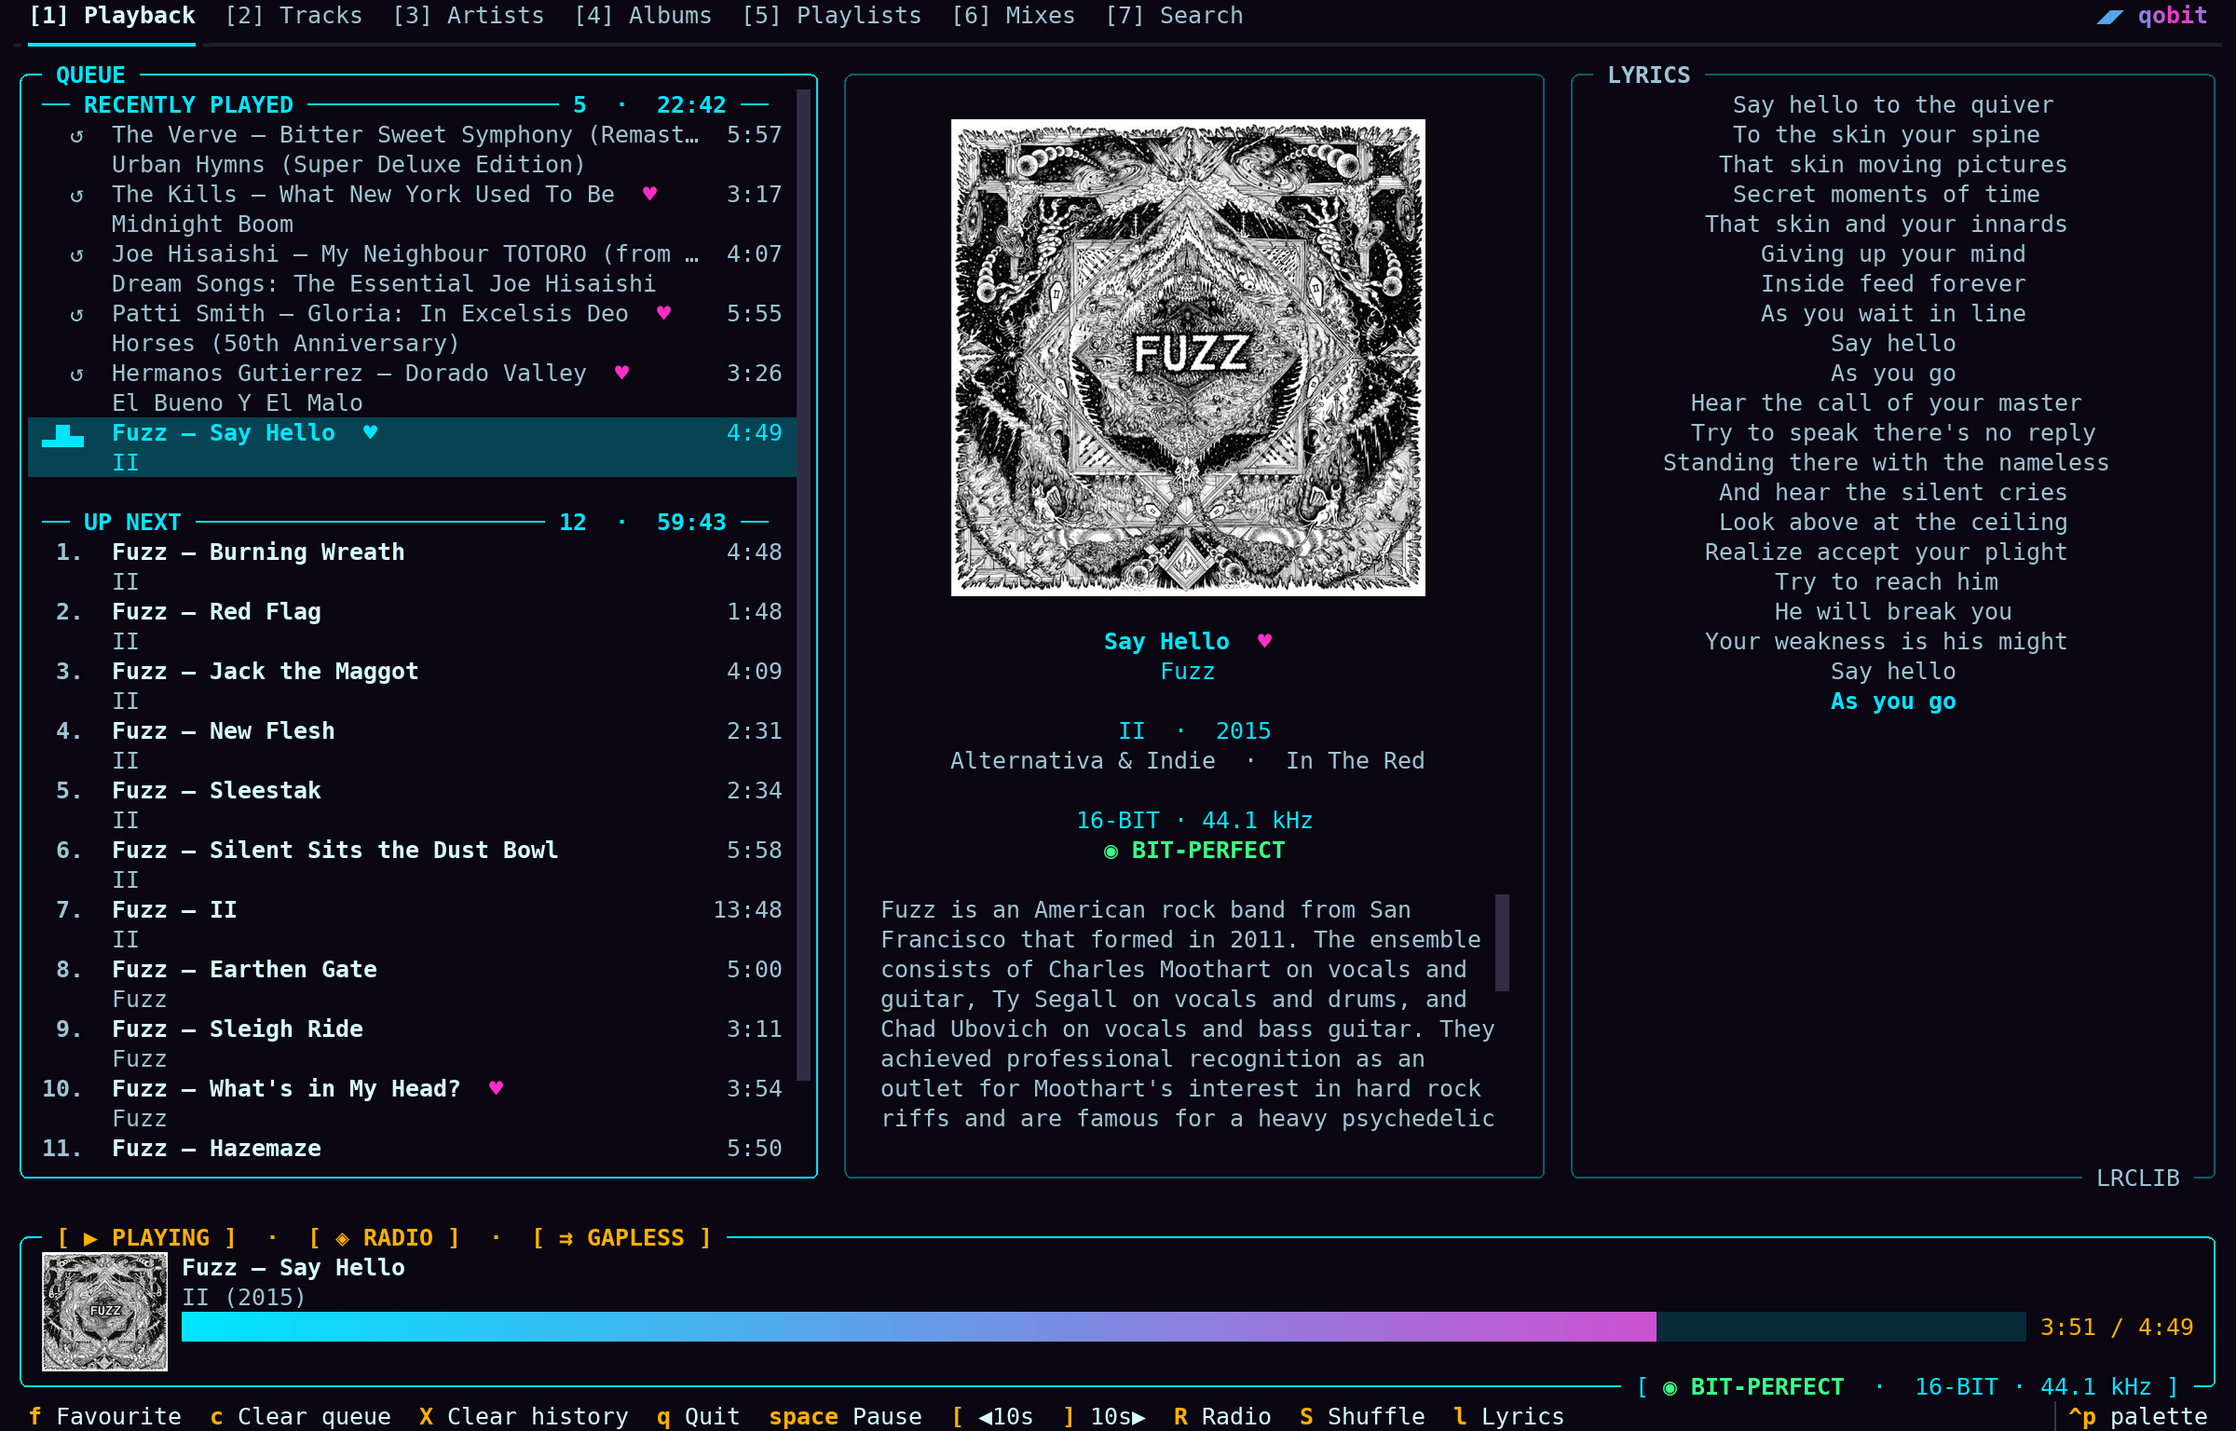
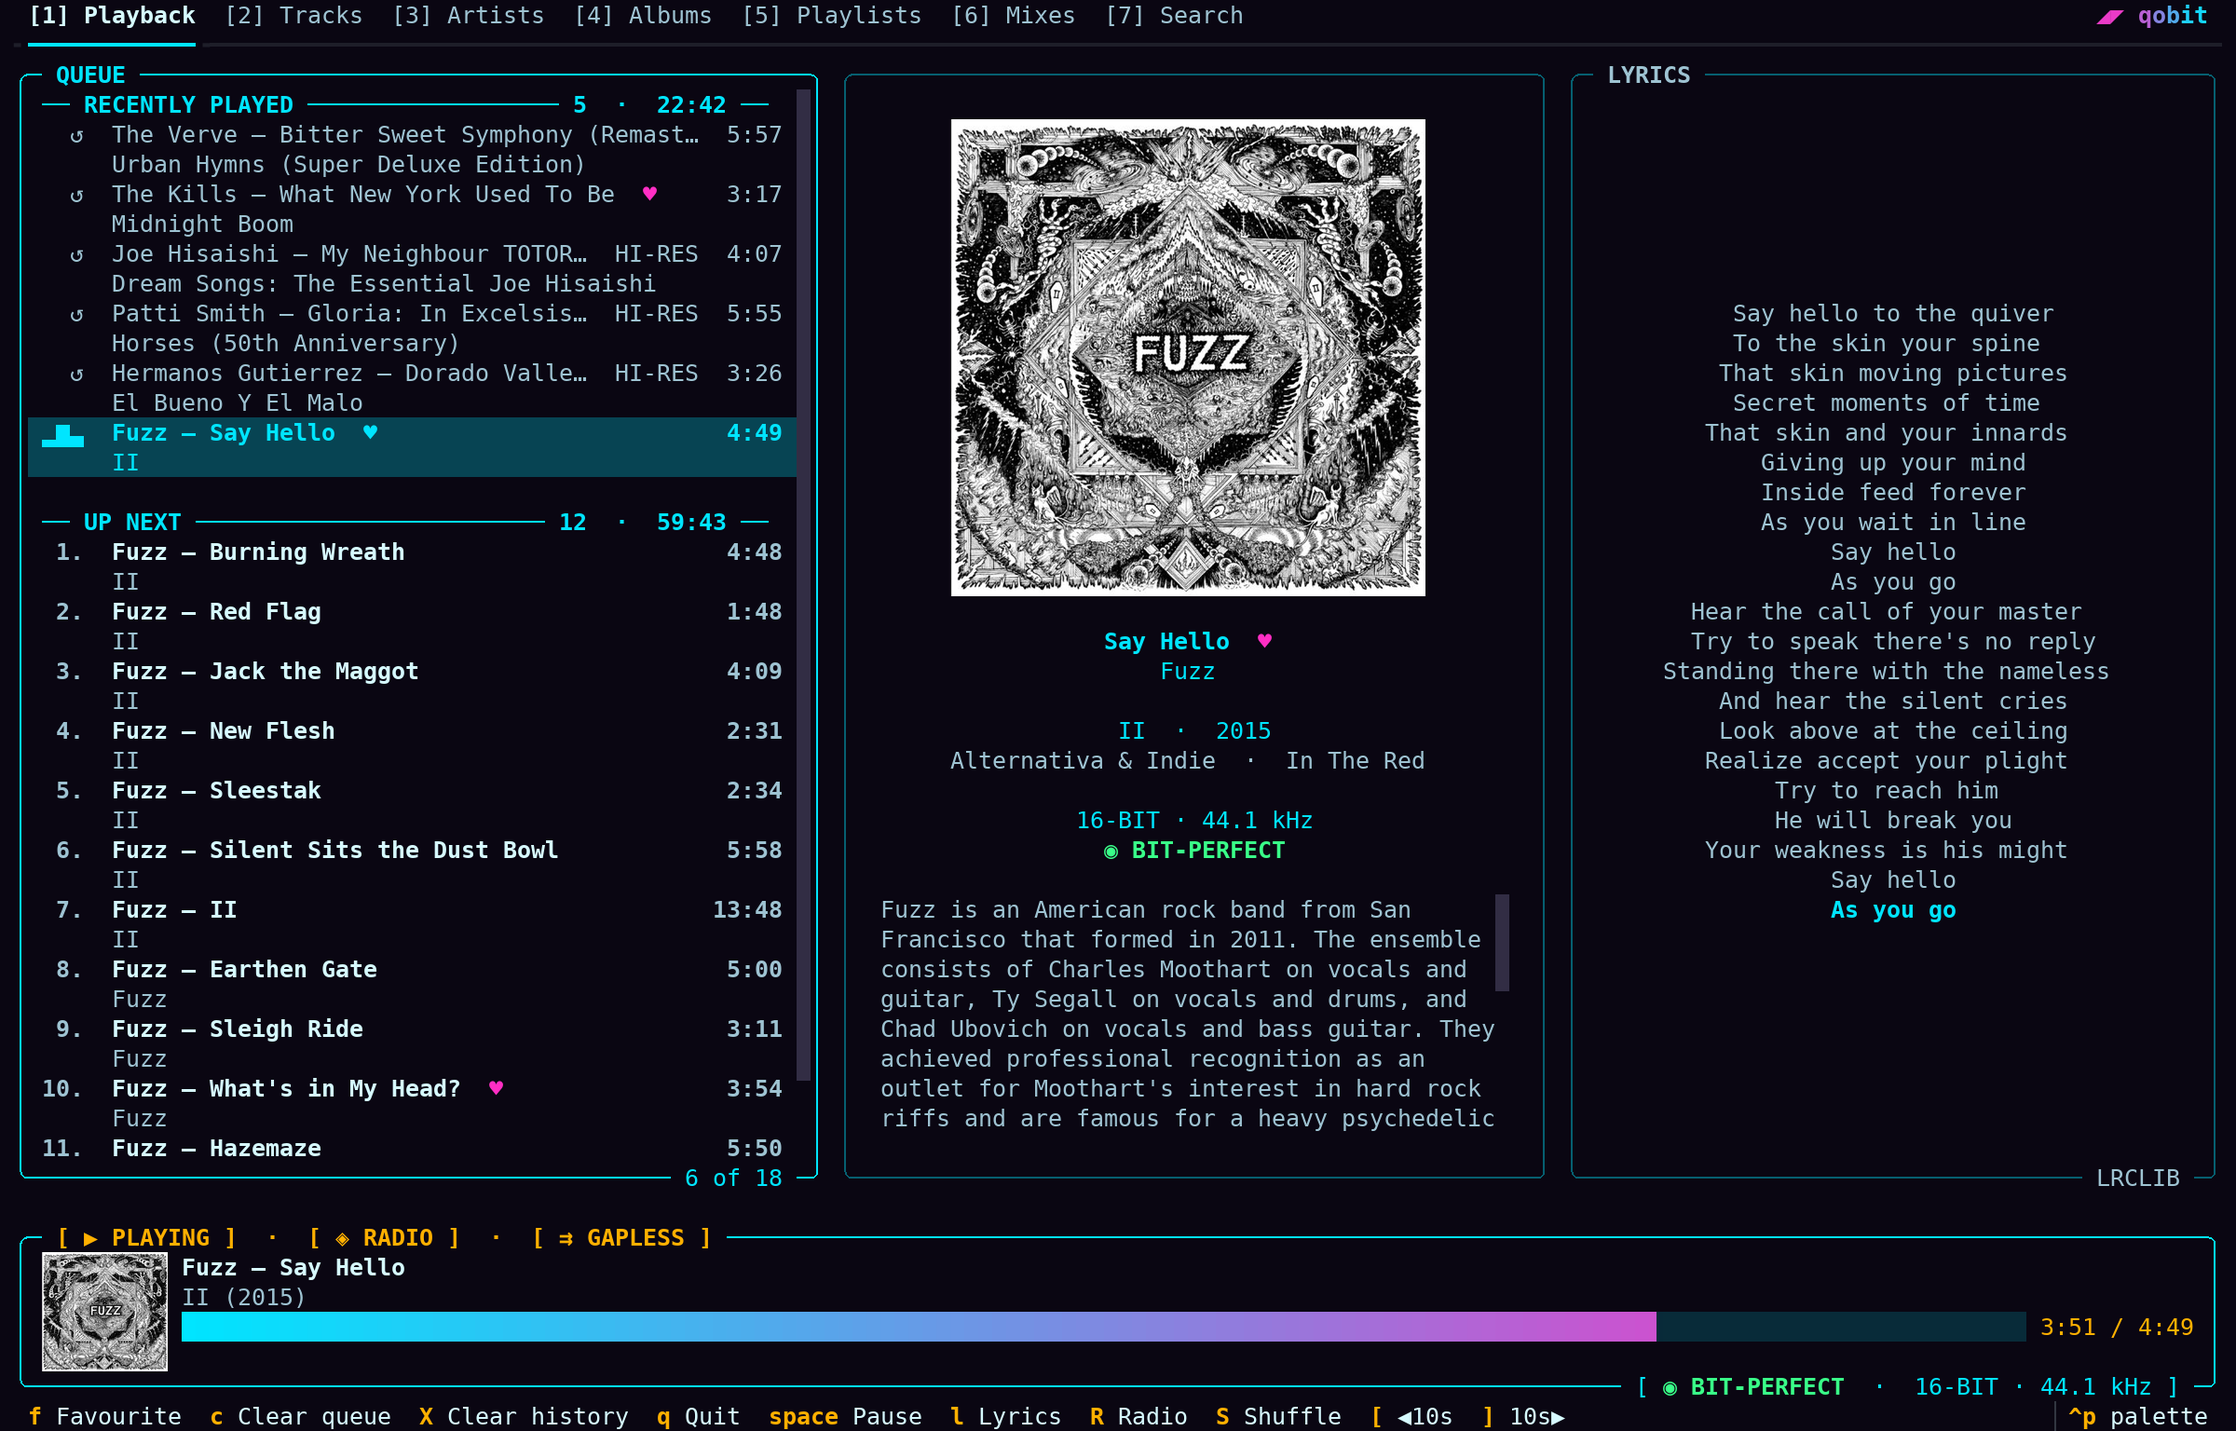
fix: footer keeps Lyrics, next-track prefetch retry, HI-RES in the queue
The footer drops the seek keys before Lyrics. A failed early fetch of the
next track's lyrics is tried once more. Queue rows show HI-RES before the
length (drawn into the title line, so the album line keeps its width), the
queue border says "N of M", and short lyrics are centred in their panel.
The Playback screenshot is regenerated.

diff --git a/tests/test_lyrics_app.py b/tests/test_lyrics_app.py
@@ -777,8 +777,9 @@ def test_two_columns_are_60_40(lyr):
 # ── queue rows ───────────────────────────────────────────────────────────────
 
 
-def _queue_lines(lyr, size=(120, 36)):
-    """The Playback list's rendered text lines, with a past, a now and an Up Next."""
+def _queue_lines(lyr, size=(120, 36), hires=()):
+    """The Playback list's rendered text lines, with a past, a now and an Up Next
+    (``hires``: the indexes of the tracks with better than CD quality)."""
     import dataclasses
 
     out: list[str] = []
@@ -786,7 +787,14 @@ def _queue_lines(lyr, size=(120, 36)):
     async def body():
         async with lyr.app.run_test(size=size) as pilot:
             ts = [
-                dataclasses.replace(_track(f"T{i}"), artist=f"Art{i}", album=f"Alb{i}", duration=d)
+                dataclasses.replace(
+                    _track(f"T{i}"),
+                    artist=f"Art{i}",
+                    album=f"Alb{i}",
+                    duration=d,
+                    bit_depth=24 if i in hires else 16,
+                    sampling_rate=96 if i in hires else 44.1,
+                )
                 for i, d in enumerate((200, 247, 294, 341, 388))
             ]
             lyr.play(ts[2], ts[3:])
@@ -880,5 +888,61 @@ def test_a_retry_does_not_land_on_another_track(lyr, monkeypatch):
             await pilot.pause(0.8)
             assert lyr.app.lyrics is SYNCED
             assert [q.title for q in lyr.service.queries].count("down") == 1
+
+    _run(body)
+
+
+def test_a_hires_track_shows_it_before_its_length_and_a_cd_one_does_not(lyr):
+    lines = _queue_lines(lyr, hires=(3,))
+    assert any("Art3" in ln and "HI-RES  5:41" in ln for ln in lines)
+    assert not any("HI-RES" in ln and "Art4" in ln for ln in lines)
+    row = next(ln for ln in lines if "Art3" in ln)
+    right = row.index("│", row.index("│") + 1)  # the list's right border
+    assert row[:right].rstrip().endswith("5:41")  # still at the edge
+
+
+def test_the_queue_border_says_where_you_are(lyr):
+    lines = _queue_lines(lyr)
+    assert any("3 of 5" in ln for ln in lines)
+
+
+def test_the_footer_keeps_lyrics_where_it_has_little_room(lyr):
+    async def body():
+        async with lyr.app.run_test(size=(120, 30)) as pilot:
+            await pilot.pause(0.3)
+            assert "Lyrics" in _screen_text(lyr.app)
+
+    _run(body)
+
+
+def test_short_lyrics_sit_in_the_middle_of_the_panel(lyr):
+    async def body():
+        async with lyr.app.run_test(size=(180, 40)) as pilot:
+            lyr.play(_track("A"))
+            await wait_until(pilot, lambda: lyr.app.lyrics_status == "found")
+            await pilot.pause(0.3)
+            _, _, panel = _pane(lyr.app)
+            rows = [s.text for s in lyr.app.screen._compositor.render_strips()]
+            first = next(n for n, r in enumerate(rows) if "first line" in r)
+            assert first - panel.region.y > 3  # not hugging the top border
+            below = panel.region.bottom - 1 - max(n for n, r in enumerate(rows) if "line" in r)
+            assert abs(below - (first - panel.region.y - 1)) <= 2  # about even above and below
+
+    _run(body)
+
+
+def test_a_failed_early_fetch_is_asked_for_again_once(lyr, monkeypatch):
+    monkeypatch.setattr("qobit.ui.app._LYRICS_RETRY_SECS", 0.2)
+
+    async def body():
+        async with lyr.app.run_test(size=(120, 30)) as pilot:
+            lyr.service.answers["next"] = Result("failed")
+            lyr.app._lyrics_prefetched = "next"
+            lyr.app._prefetch_lyrics(_track("next"))
+            await wait_until(pilot, lambda: lyr.app._lyrics_prefetched is None, timeout=3)
+            lyr.app._lyrics_prefetched = "next"
+            lyr.app._prefetch_lyrics(_track("next"))
+            await pilot.pause(0.6)
+            assert lyr.app._lyrics_prefetched == "next"  # a second failure is left alone
 
     _run(body)

diff --git a/src/qobit/ui/screens/queue.py b/src/qobit/ui/screens/queue.py
@@ -53,6 +53,11 @@ def _meta(t: Track) -> str:
     return f"{meta_indent(_GUTTER)}{t.album}"
 
 
+def _time(t: Track) -> str:
+    """The right edge of a row's title line: the length, HI-RES before it."""
+    return f"HI-RES  {t.duration_str}" if t.hires else t.duration_str
+
+
 def _total(tracks: list[Track]) -> str:
     """Playing time of ``tracks`` (m:ss, h:mm:ss from an hour), "" if unknown."""
     secs = sum(t.duration for t in tracks)
@@ -134,9 +139,6 @@ class TimelineRow(ListItem):
     DEFAULT_CSS = """
     TimelineRow { height: 2; padding: 0 1; }
     TimelineRow Label { width: 1fr; }
-    /* The duration sits at the right of the title line; docked, it takes its
-       width off the title (which then ends in an ellipsis), never overlaps. */
-    TimelineRow .row-dur { dock: right; width: auto; height: 1; padding-left: 2; }
     TimelineRow.-next .row-title { text-style: bold; }
     TimelineRow.-next .row-meta { color: $qobit-muted; }
     TimelineRow.-history .row-title { color: $qobit-muted; }
@@ -157,6 +159,7 @@ class TimelineRow(ListItem):
         self._number = 0
         self._favorite = False
         self._is_paused = False
+        self._width = 0  # the title line's width, once laid out (see _with_time)
 
     def configure(
         self,
@@ -205,11 +208,30 @@ class TimelineRow(ListItem):
             lead, text, False, False, heart_suffix(self._favorite), width=_GUTTER
         )
 
+    def _with_time(self, title: Content) -> Content:
+        """The title line with the length (and HI-RES) at its right edge: drawn
+        into the line, so the album line below keeps its whole width. The title
+        gives way with an ellipsis. Unknown width (not laid out yet): as is."""
+        if self._width <= 0:
+            return title
+        time = _time(self.track)
+        room = self._width - len(time) - 2
+        if room < 8:  # a very narrow list: no room for both
+            return title
+        style = "$qobit-muted" if self.role == "next" else ""
+        return Content.assemble(title.truncate(room, ellipsis=True, pad=True), "  ", (time, style))
+
     def _refresh_title(self) -> None:
         with contextlib.suppress(NoMatches):
             # One line (nowrap): no layout pass (see NowPlayingRowMixin).
-            title = plain_if_highlighted(self, self._primary())
+            title = plain_if_highlighted(self, self._with_time(self._primary()))
             self.query_one(".row-title", Label).update(title, layout=False)
+
+    def on_resize(self, event: Resize) -> None:
+        width = self.content_size.width
+        if width != self._width:
+            self._width = width
+            self._refresh_title()
 
     def watch_highlighted(self, value: bool) -> None:
         super().watch_highlighted(value)  # ListItem: the -highlight class
@@ -217,8 +239,7 @@ class TimelineRow(ListItem):
             self._refresh_title()
 
     def compose(self) -> ComposeResult:
-        yield Label(self.track.duration_str, classes="row-meta row-dur", markup=False)
-        yield Label(self._primary(), classes="row-title")
+        yield Label(self._with_time(self._primary()), classes="row-title")
         yield Label(_meta(self.track), classes="row-meta", markup=False)
 
     def set_paused(self, paused: bool) -> None:
@@ -726,7 +747,10 @@ class QueueView(Widget):
         lv._backlog = desired[limit:]  # type: ignore[attr-defined]
         await self._apply(lv, desired[:limit])
 
-        lv.border_subtitle = ""  # the section rules carry the counts and times
+        # Where you are in the timeline (the section rules carry counts and times).
+        lv.border_subtitle = (
+            f"{app._cursor + 1} of {len(app._timeline)}" if now_playing and app._cursor >= 0 else ""
+        )
 
         target = now_row if follow or held not in desired else held
         self._place_cursor(lv, target, center=first_render)

diff --git a/src/qobit/ui/app.py b/src/qobit/ui/app.py
@@ -474,11 +474,13 @@ class QobitApp(App[None]):
     BINDINGS = [
         Binding("q", "quit", "Quit"),
         Binding("space", "pause", "Pause"),
-        Binding("[", "seek_back", "◀10s"),
-        Binding("]", "seek_fwd", "10s▶"),
+        # The footer hides keys from the end when it is short: the ones that
+        # matter most come first (the seek keys are on the mouse and `[` `]`).
+        Binding("l", "lyrics", "Lyrics"),
         Binding("R", "start_radio", "Radio"),
         Binding("S", "toggle_shuffle", "Shuffle"),
-        Binding("l", "lyrics", "Lyrics"),
+        Binding("[", "seek_back", "◀10s"),
+        Binding("]", "seek_fwd", "10s▶"),
         Binding("L", "lyrics_full", "Lyrics", show=False),
         # Listed in the footer only on the lyrics page (its own bindings): the
         # Playback footer has no room for three more keys.
@@ -658,6 +660,7 @@ class QobitApp(App[None]):
         self._lyrics_query: Query | None = None
         self._lyrics_prefetched: str | None = None
         self._lyrics_retries = 0
+        self._lyrics_prefetch_retried: set[str] = set()
         self._prefetch_failed: str | None = None
         self._prefetching = False
         self._flash_timer: object | None = None
@@ -1515,6 +1518,7 @@ class QobitApp(App[None]):
         self._lyrics_query = None
         self._lyrics_prefetched = None
         self._lyrics_retries = 0
+        self._lyrics_prefetch_retried = set()
         self.lyrics_line = -1
         if track is None:
             self.lyrics_status = "idle"
@@ -1576,7 +1580,14 @@ class QobitApp(App[None]):
 
     @work(group="_prefetch_lyrics")
     async def _prefetch_lyrics(self, track: Track) -> None:
-        await self._lyrics.lookup(self._lyrics_query_for(track))  # fills the cache
+        result = await self._lyrics.lookup(self._lyrics_query_for(track))  # fills the cache
+        if result.status == "failed" and track.id not in self._lyrics_prefetch_retried:
+            self._lyrics_prefetch_retried.add(track.id)  # once: the position tick asks again
+            self.set_timer(_LYRICS_RETRY_SECS, lambda: self._forget_prefetch(track.id))
+
+    def _forget_prefetch(self, track_id: str) -> None:
+        if self._lyrics_prefetched == track_id:
+            self._lyrics_prefetched = None
 
     def _lyrics_screen_open(self) -> bool:
         from .screens.lyrics import LyricsScreen

diff --git a/src/qobit/qobuz/models.py b/src/qobit/qobuz/models.py
@@ -83,6 +83,10 @@ class Track:
     # The recording's ISRC: names the track across editions (lyrics are cached
     # by it). None in lists saved before it existed: they load unchanged.
     isrc: str | None = None
+    # The best Qobuz has for it (16 / 44.1 is CD quality). None in lists saved
+    # before they existed: no badge until the list is fetched again.
+    bit_depth: int | None = None
+    sampling_rate: float | None = None
 
     @classmethod
     def from_api(cls, data: dict) -> "Track":
@@ -115,7 +119,14 @@ class Track:
             album_artist_id=str(album_artist["id"]) if album_artist.get("id") else None,
             album_year=release_year(album),
             isrc=data.get("isrc") or None,
+            bit_depth=data.get("maximum_bit_depth") or None,
+            sampling_rate=data.get("maximum_sampling_rate") or None,
         )
+
+    @property
+    def hires(self) -> bool:
+        """Better than CD quality."""
+        return bool((self.bit_depth or 0) > 16 or (self.sampling_rate or 0) > 44.1)
 
     def by_artist(self, artist_id: str) -> bool:
         return artist_id in (self.artist_id, self.album_artist_id)

diff --git a/tests/test_lyrics_core.py b/tests/test_lyrics_core.py
@@ -471,3 +471,22 @@ def test_cache_a_choice_kept_before_the_isrc_was_known_is_found_with_it():
     lyrics_cache.update(full, reject=True)  # moves to the ISRC key
     assert lyrics_cache.load(full).rejected and lyrics_cache.load(full).offset == 1.5
     assert lyrics_cache.load(bare) is None  # no stale copy under the old key
+
+
+def test_a_track_knows_whether_it_is_better_than_cd_quality():
+    from qobit.qobuz.models import Track
+
+    def track(depth, rate) -> Track:
+        return Track.from_api(
+            {
+                "id": 1,
+                "title": "t",
+                "maximum_bit_depth": depth,
+                "maximum_sampling_rate": rate,
+                "performer": {"name": "a"},
+            }
+        )
+
+    assert not track(16, 44.1).hires
+    assert track(24, 44.1).hires and track(16, 96).hires and track(24, 192).hires
+    assert not Track.from_api({"id": 1, "title": "t", "performer": {"name": "a"}}).hires

diff --git a/src/qobit/ui/widgets/lyrics.py b/src/qobit/ui/widgets/lyrics.py
@@ -217,6 +217,8 @@ class LyricsView(Widget):
         top = max(0, min(top, max(0, len(rows) - height)))
         accent = theme_color(app, ACCENT_TEXT)
         text = Text(no_wrap=True, overflow="ellipsis")
+        if len(rows) < height:  # all of it fits: the block sits in the middle
+            text.append("\n" * ((height - len(rows)) // 2))
         for n, (row, index) in enumerate(rows[top : top + height]):
             if n:
                 text.append("\n")

diff --git a/CLAUDE.md b/CLAUDE.md
@@ -92,6 +92,10 @@ matched by track id, reconfigured, moved; only new tracks mounted, leftovers
 removed last; one reconcile at a time under a lock). Never clear and remount
 it: that flickered and lost the scroll position. `tests/test_queue_reconcile.py`
 checks it against the timeline. `jump_to`/`play_track` are `@work`.
+A row's length (and HI-RES, from `Track.hires`: `bit_depth`/`sampling_rate`) is
+drawn into its title line (`TimelineRow._with_time`, on resize), not a docked
+widget: a dock took the width off the album line too. The list's border
+subtitle is `N of M` (cursor of timeline).
 
 **`queue_version`** is bumped on every timeline/cursor change; widgets watch it.
 Any new timeline mutator must bump it and exist in **both** play contexts.

diff --git a/CHANGELOG.md b/CHANGELOG.md
@@ -20,6 +20,16 @@ workflow publishes to PyPI and creates the GitHub release from this entry.
   service" for the whole track.
 - Lyrics: a timing shift or "remove lyrics" you made on a track restored from
   an earlier session is kept when the same track comes back with its ISRC.
+- Lyrics: the early fetch of the next track's lyrics is tried again once after
+  a failure.
+- The footer keeps `l Lyrics` on a narrow terminal, where it hid first. It
+  drops the seek keys before it.
+
+### Changed
+
+- Queue rows mark tracks better than CD quality with `HI-RES` before their
+  length, and the queue border says where you are (`3 of 59`).
+- Short lyrics sit in the middle of the panel instead of at the top.
 
 ## [0.14.0] - 2026-11-20
 
